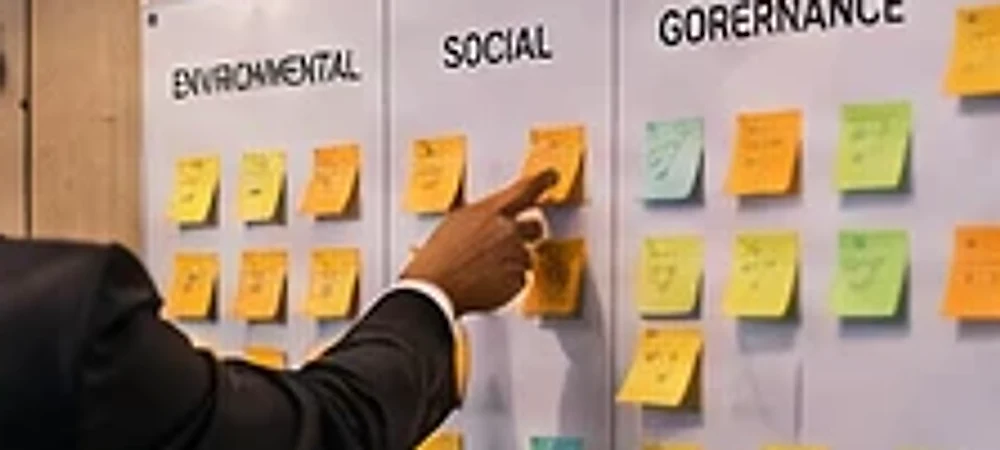
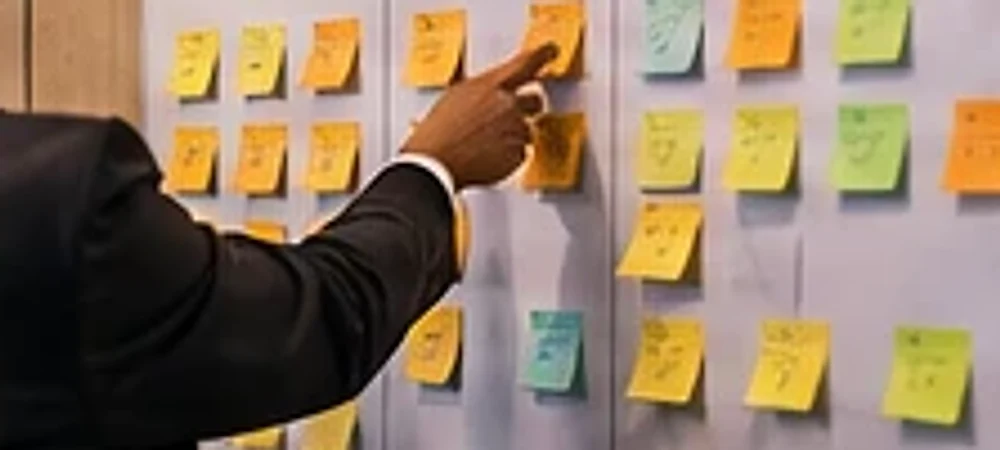
solutions: render hero art uncropped, and reframe materiality
The detail hero boxed a 20:9 image in a 4:3 frame, so object-cover showed
only the middle 60 percent and magnified it. Matching the box to the art
drops the effective upscale from 3.7x to 2.2x, which is most of the
sharpness complaint on that page.

Reframed the materiality photograph below the board heading, which the
generator had spelled GORERNANCE. The frame still reads as issues being
ranked on a wall, and a missing label costs less than a misspelling on a
client-facing page.

Two more carry the same fault and cannot be cropped out of it, since the
text is the subject rather than the backdrop: sustainability-reporting
reads "Sostainability Report" on the document, and financed-emissions
labels a panel "PORTOLIO". Both want regenerating.

diff --git a/app/solutions/[slug]/page.tsx b/app/solutions/[slug]/page.tsx
@@ -236,7 +236,7 @@ function ServiceView({ slug }: { slug: string }) {
                 src={heroImage}
                 alt=""
                 aria-hidden="true"
-                className="aspect-[20/9] w-full object-cover sm:aspect-[21/9] lg:aspect-[4/3]"
+                className="aspect-[20/9] w-full object-cover"
               />
             </div>
           ) : null}
